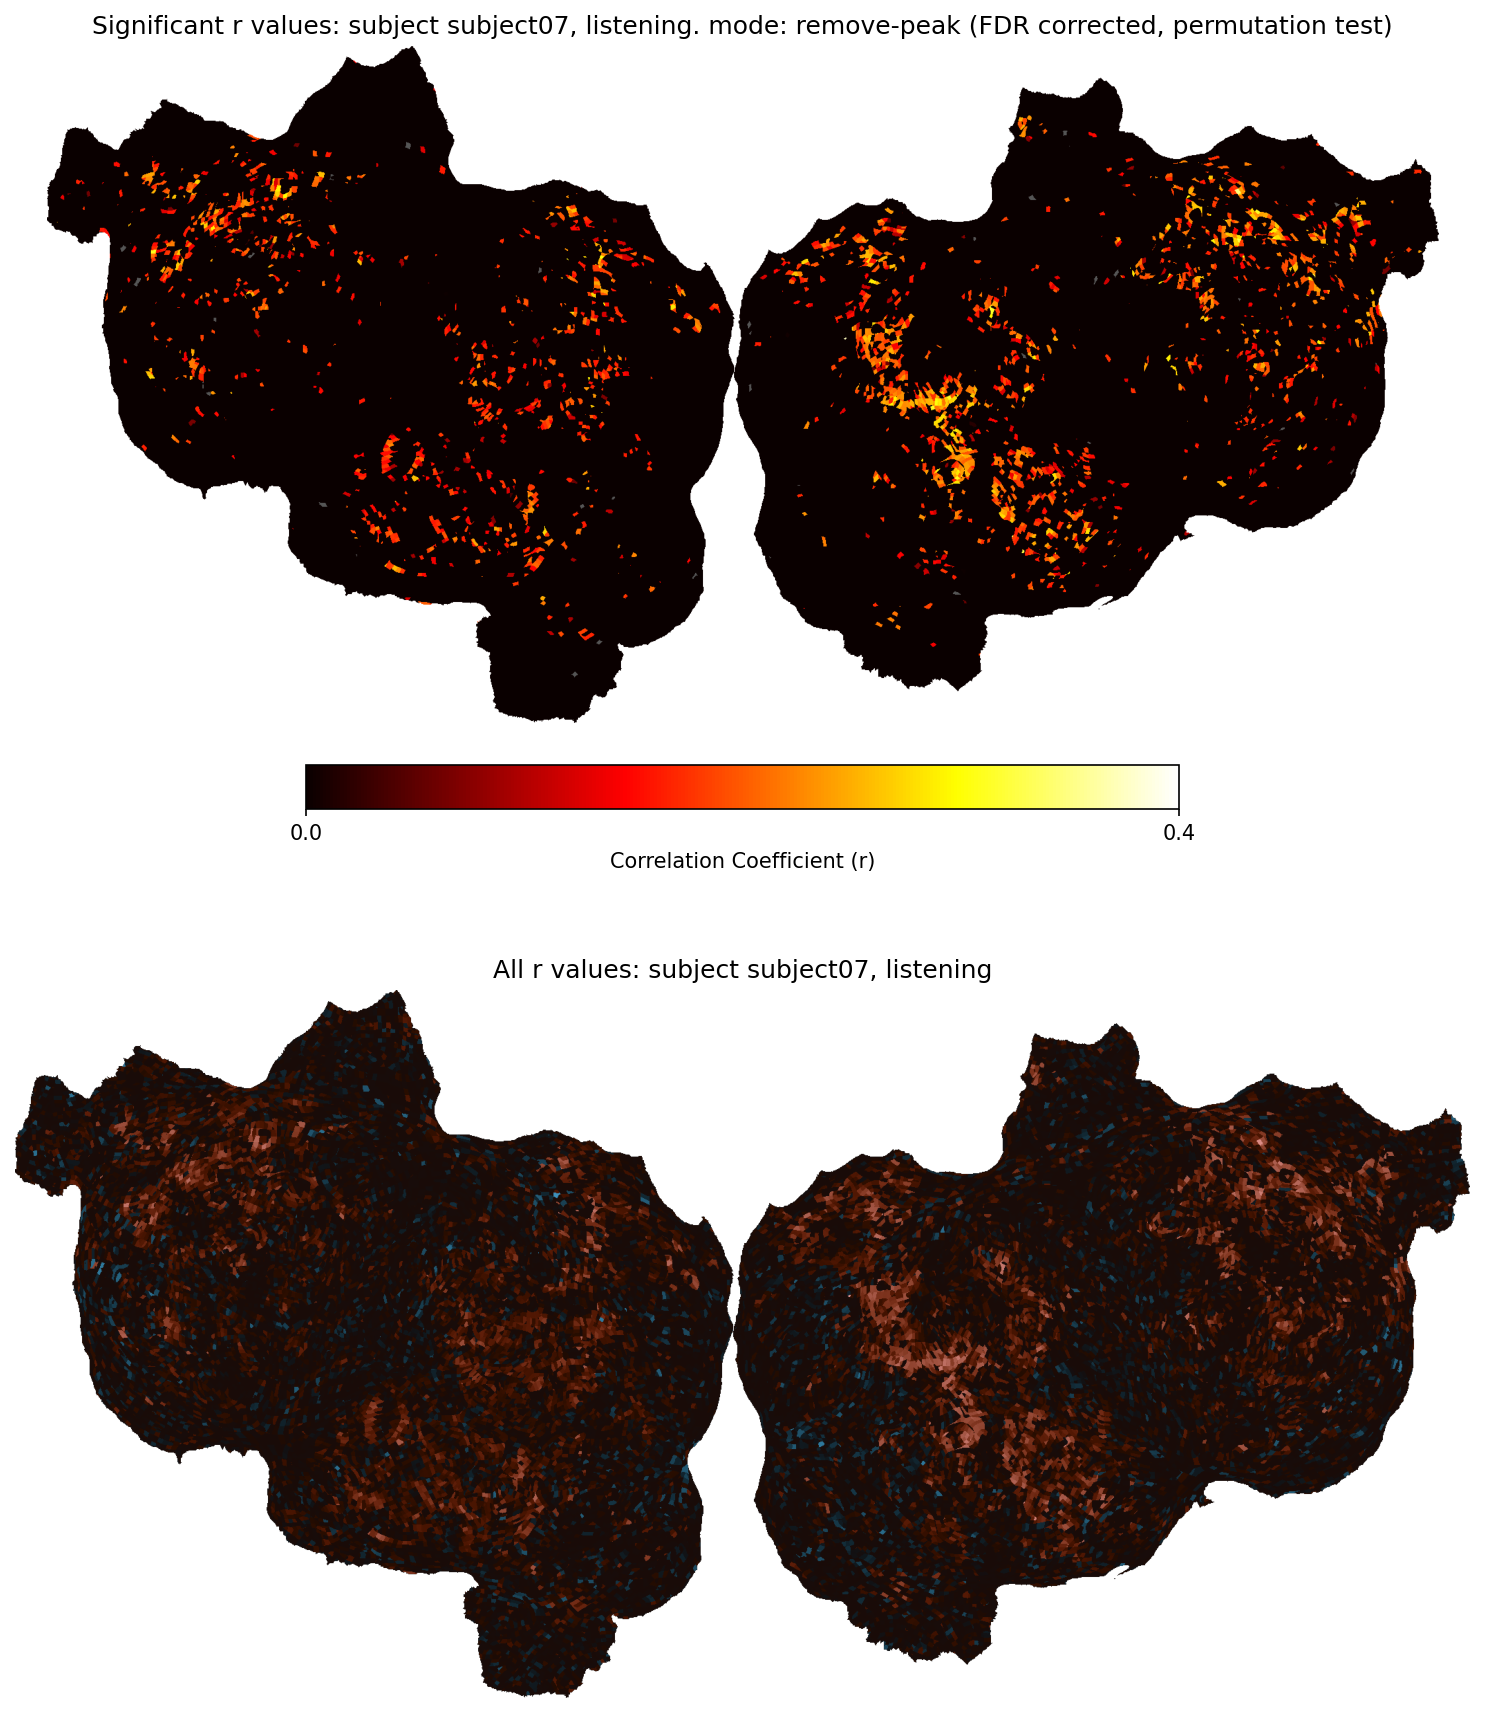
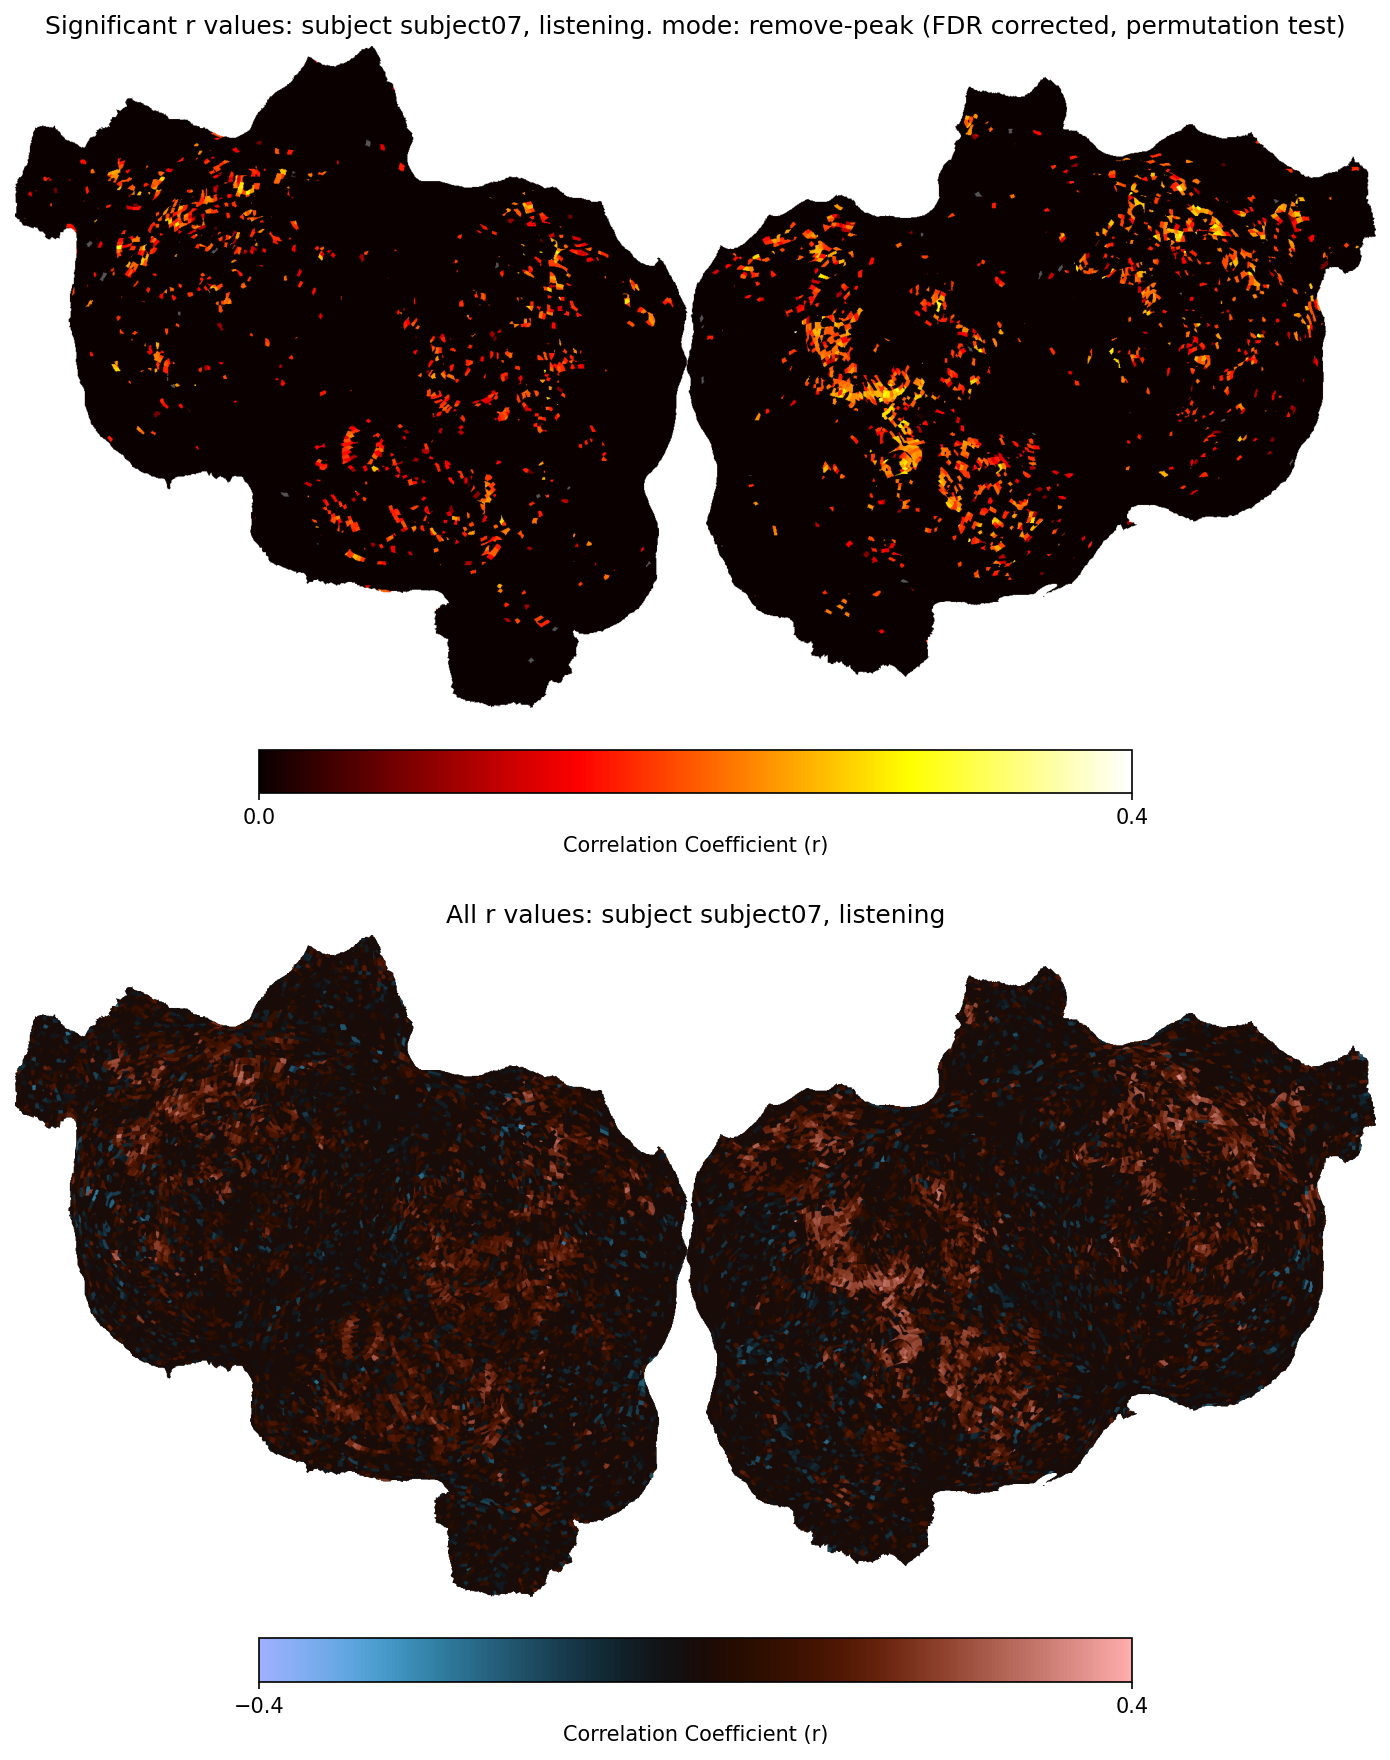
added colorbar to nonsig r

Changed region(s): [[0.0, 0.526, 0.9899, 0.9901], [0.0, 0.0, 0.9899, 0.526]]

diff --git a/scripts/plotting_utils.py b/scripts/plotting_utils.py
@@ -139,6 +139,9 @@ def plot_correlation_on_flatmap(
         axes[1].imshow(flatmap, cmap="berlin", vmin=-0.4, vmax=0.4)
         axes[1].axis("off")
         axes[1].set_title(f"All r values: subject {subject}, {modality}")
+        im = axes[1].imshow(flatmap, cmap="berlin", vmin=-1*vmax_, vmax=vmax_)
+        cbar = plt.colorbar(im, ax=axes[1], label='Correlation Coefficient (r)', orientation='horizontal', pad=0.05, shrink=0.6)
+        cbar.set_ticks([-1*vmax_, vmax_])
 
     plt.tight_layout()
     if save_fig:
